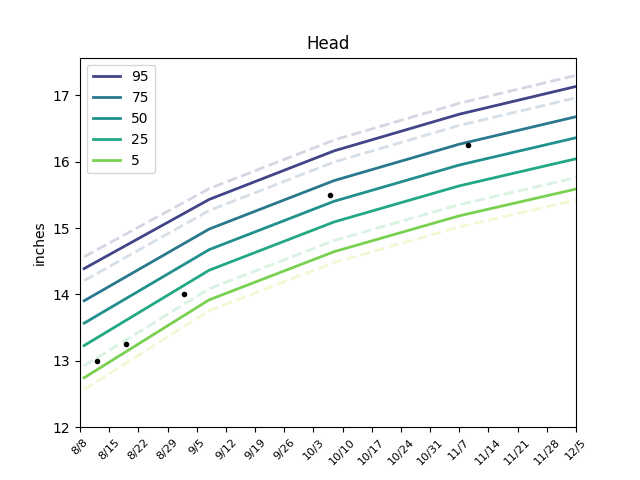
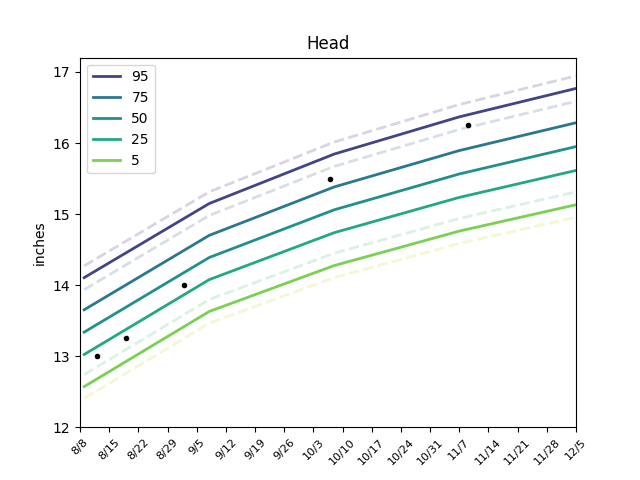
add percentiles by gender

diff --git a/datita.py b/datita.py
@@ -56,10 +56,10 @@ def define_months():
     return n_months, month_dates
 
 
-def read_percentiles(percentile_type, n_months):
+def read_percentiles(percentile_type, gender, n_months):
     # read CDC percentile tables 
 
-    f = open('percentiles_{type}.txt'.format(type=percentile_type), 'r')
+    f = open('percentiles_{type}_{gender}.txt'.format(type=percentile_type, gender=gender), 'r')
     lines = f.readlines()
 
     percentiles = numpy.zeros((9, n_months))
@@ -592,9 +592,9 @@ def plot_diapers(data_diapers):
     plt.savefig('diapers_number.png')
 
 
-def plot_percentiles(measurement, measurement_data, n_months):
+def plot_percentiles(measurement, gender, measurement_data, n_months):
     
-    percentile_data = read_percentiles(measurement, n_months)
+    percentile_data = read_percentiles(measurement, gender, n_months)
     percentiles = [2, 5, 10, 25, 50, 75, 90, 95, 98]
     percentile_colors = numpy.arange(0.1, 1.0, 0.1)
 
@@ -614,7 +614,7 @@ def plot_percentiles(measurement, measurement_data, n_months):
 
     if measurement == 'weight':
         plt.title('Weight')
-        plt.plot([birthdate, last_date], [measurement_data[0][1], measurement_data[0][1] + 1.5/16.*n_days], 'k--', label='1.5oz per day')
+        plt.plot([birthdate, last_date], [measurement_data[0][1], measurement_data[0][1] + 1.0/16.*n_days], 'k--', label='1oz per day')
         size = 1
         plt.gca().set_ylim(bottom=0)
         plt.ylabel('pounds')
@@ -650,11 +650,11 @@ if __name__ == '__main__':
 
     Hatch_filename = 'data_Hatch.txt'
     head_filename = 'data_head.txt'
+    gender = 'girl'
     birthdate = datetime(2020, 8, 9).date()
     colormap = plt.get_cmap('viridis').reversed()  
     morning = 8
     night = 20
-
 
     [lines_sleeps, lines_feedings, lines_diapers, lines_weights, lines_lengths] = read_data(Hatch_filename)
     
@@ -684,8 +684,8 @@ if __name__ == '__main__':
     plot_sleep_24(data_sleep_24)
     plot_feeding(data_feeding)
     plot_diapers(data_diapers)
-    plot_percentiles('weight', data_weight, n_months)
-    plot_percentiles('length', data_length, n_months)
-    plot_percentiles('head', data_head, n_months)
+    plot_percentiles('weight', gender, data_weight, n_months)
+    plot_percentiles('length', gender, data_length, n_months)
+    plot_percentiles('head', gender, data_head, n_months)
 
     plt.show()
